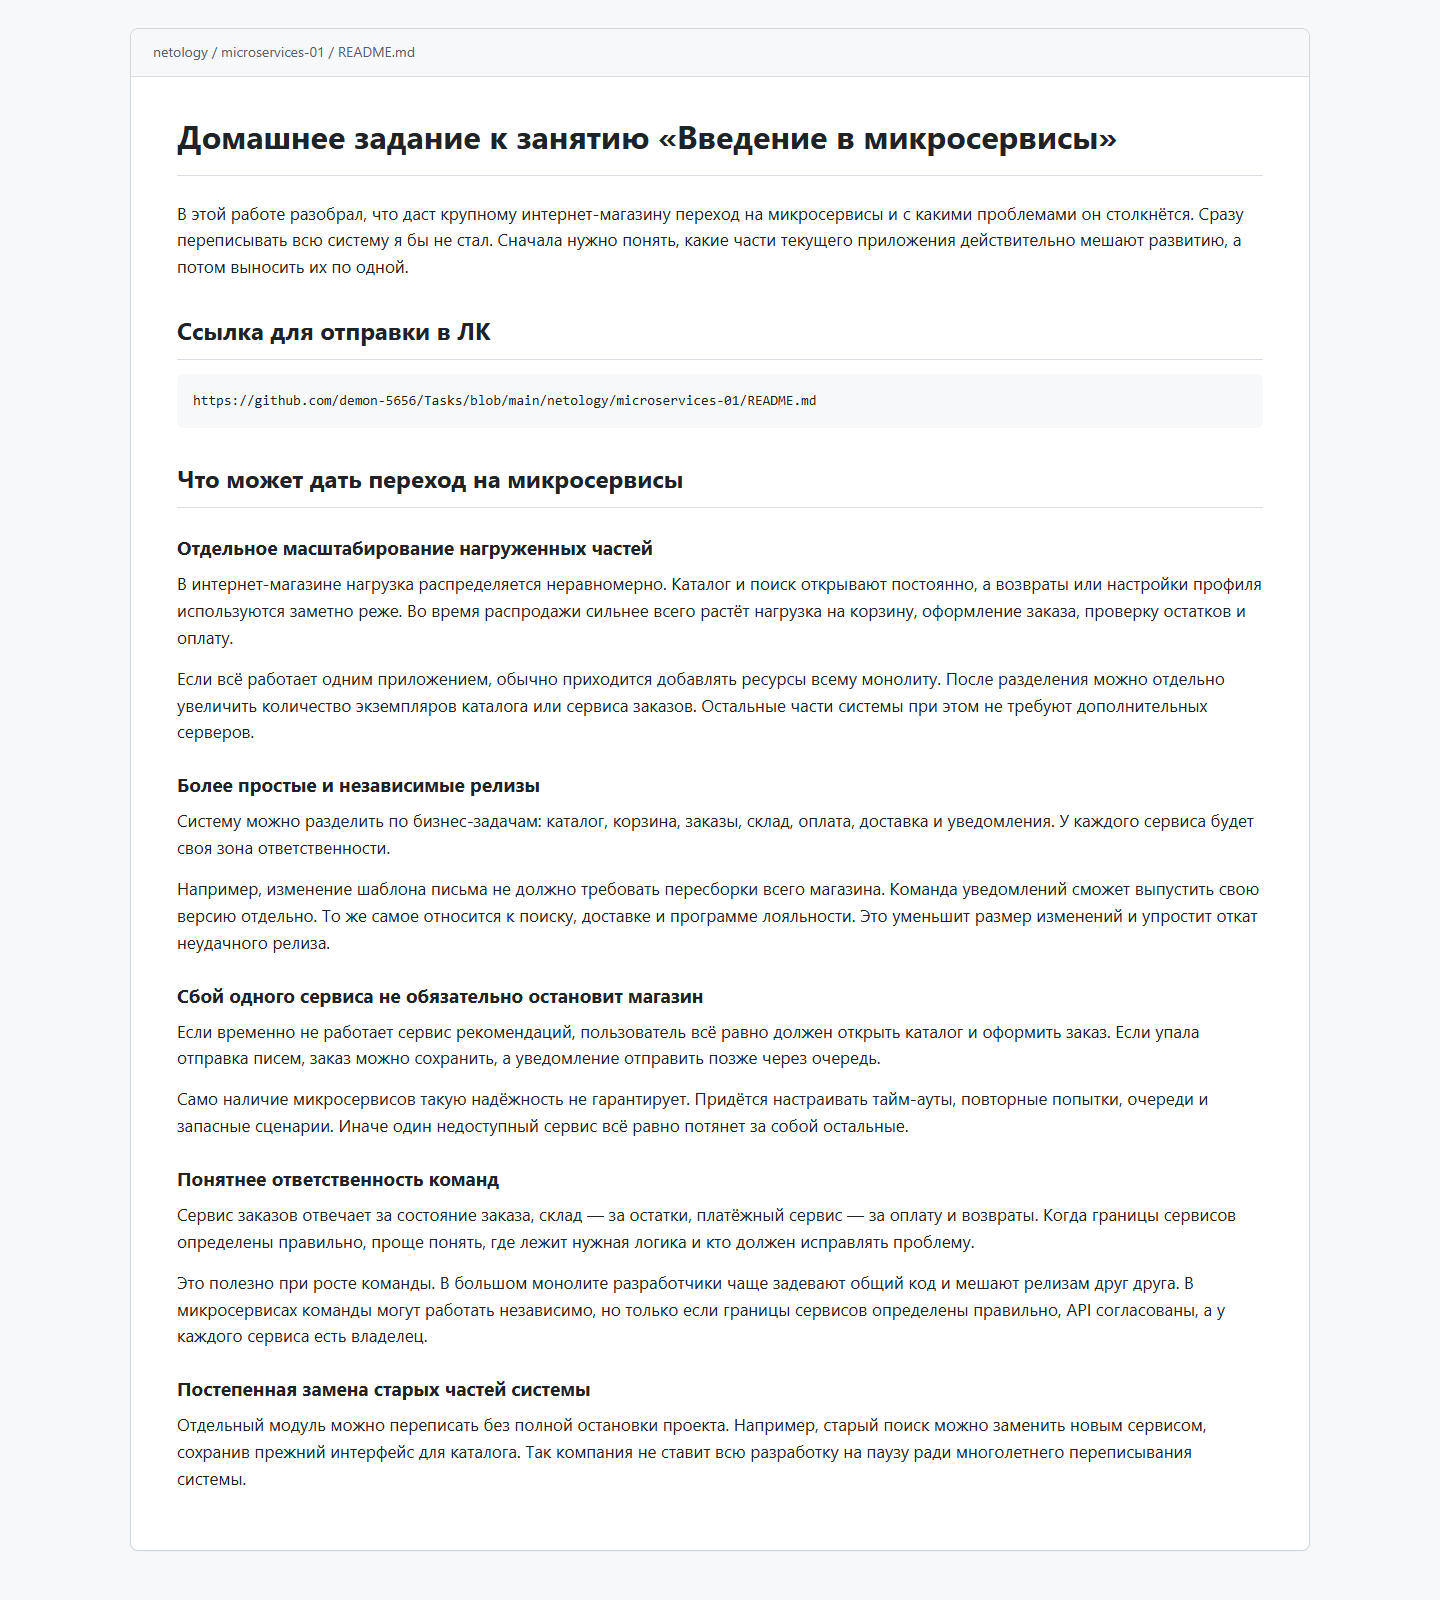
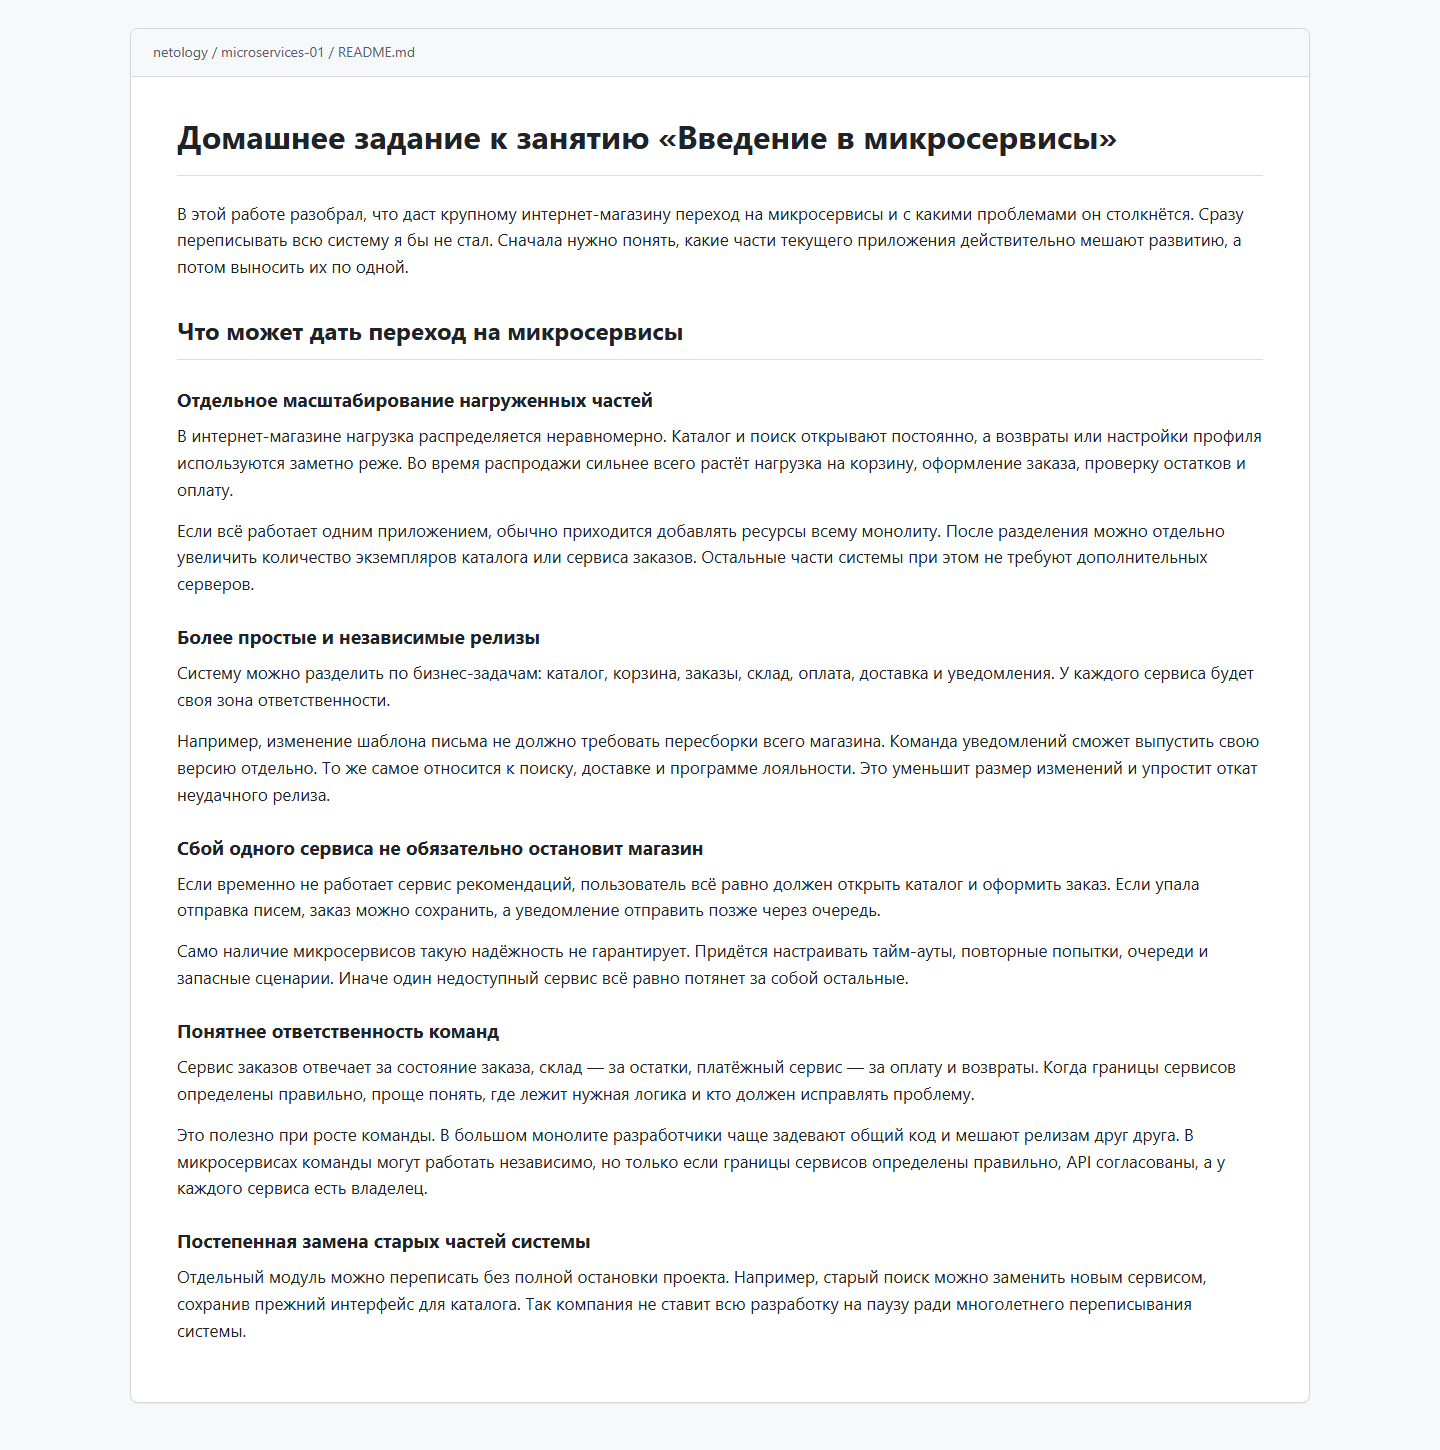
Remove submission link from microservices answer

Changed region(s): [[0.0938, 0.031, 0.875, 0.931]]

diff --git a/netology/microservices-01/README.md b/netology/microservices-01/README.md
@@ -2,12 +2,6 @@
 
 В этой работе разобрал, что даст крупному интернет-магазину переход на микросервисы и с какими проблемами он столкнётся. Сразу переписывать всю систему я бы не стал. Сначала нужно понять, какие части текущего приложения действительно мешают развитию, а потом выносить их по одной.
 
-## Ссылка для отправки в ЛК
-
-```text
-https://github.com/demon-5656/Tasks/blob/main/netology/microservices-01/README.md
-```
-
 ## Что может дать переход на микросервисы
 
 ### Отдельное масштабирование нагруженных частей
